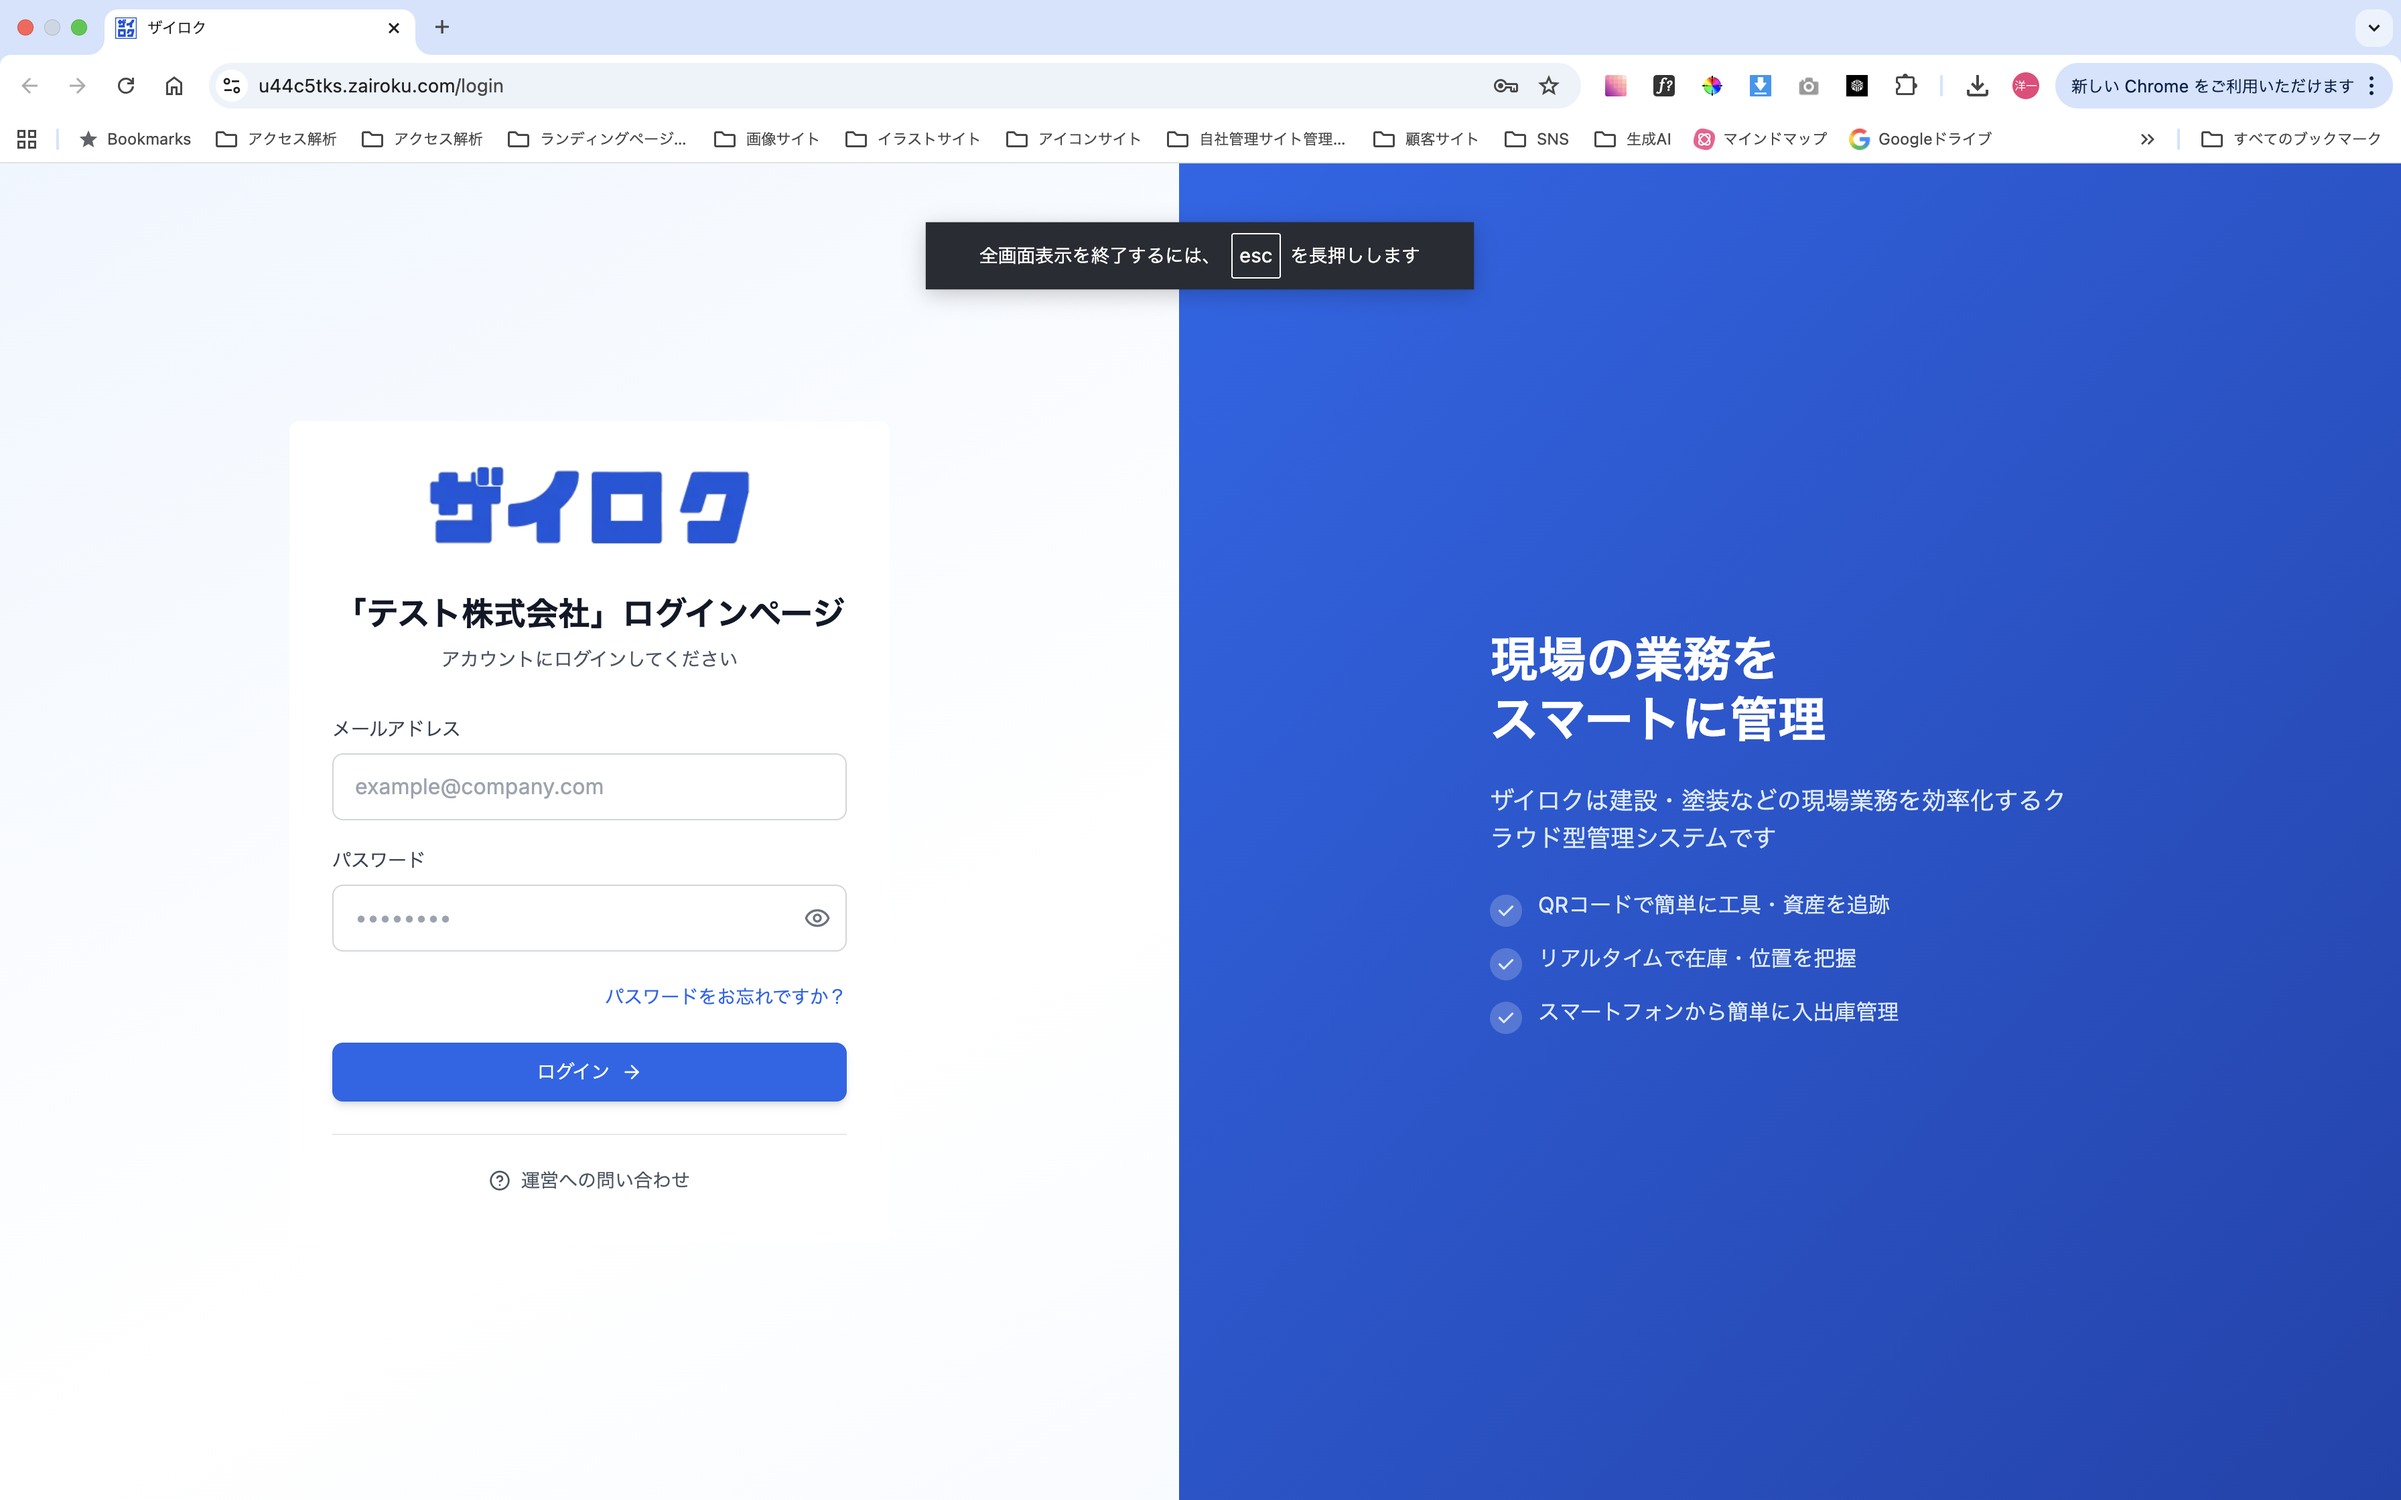
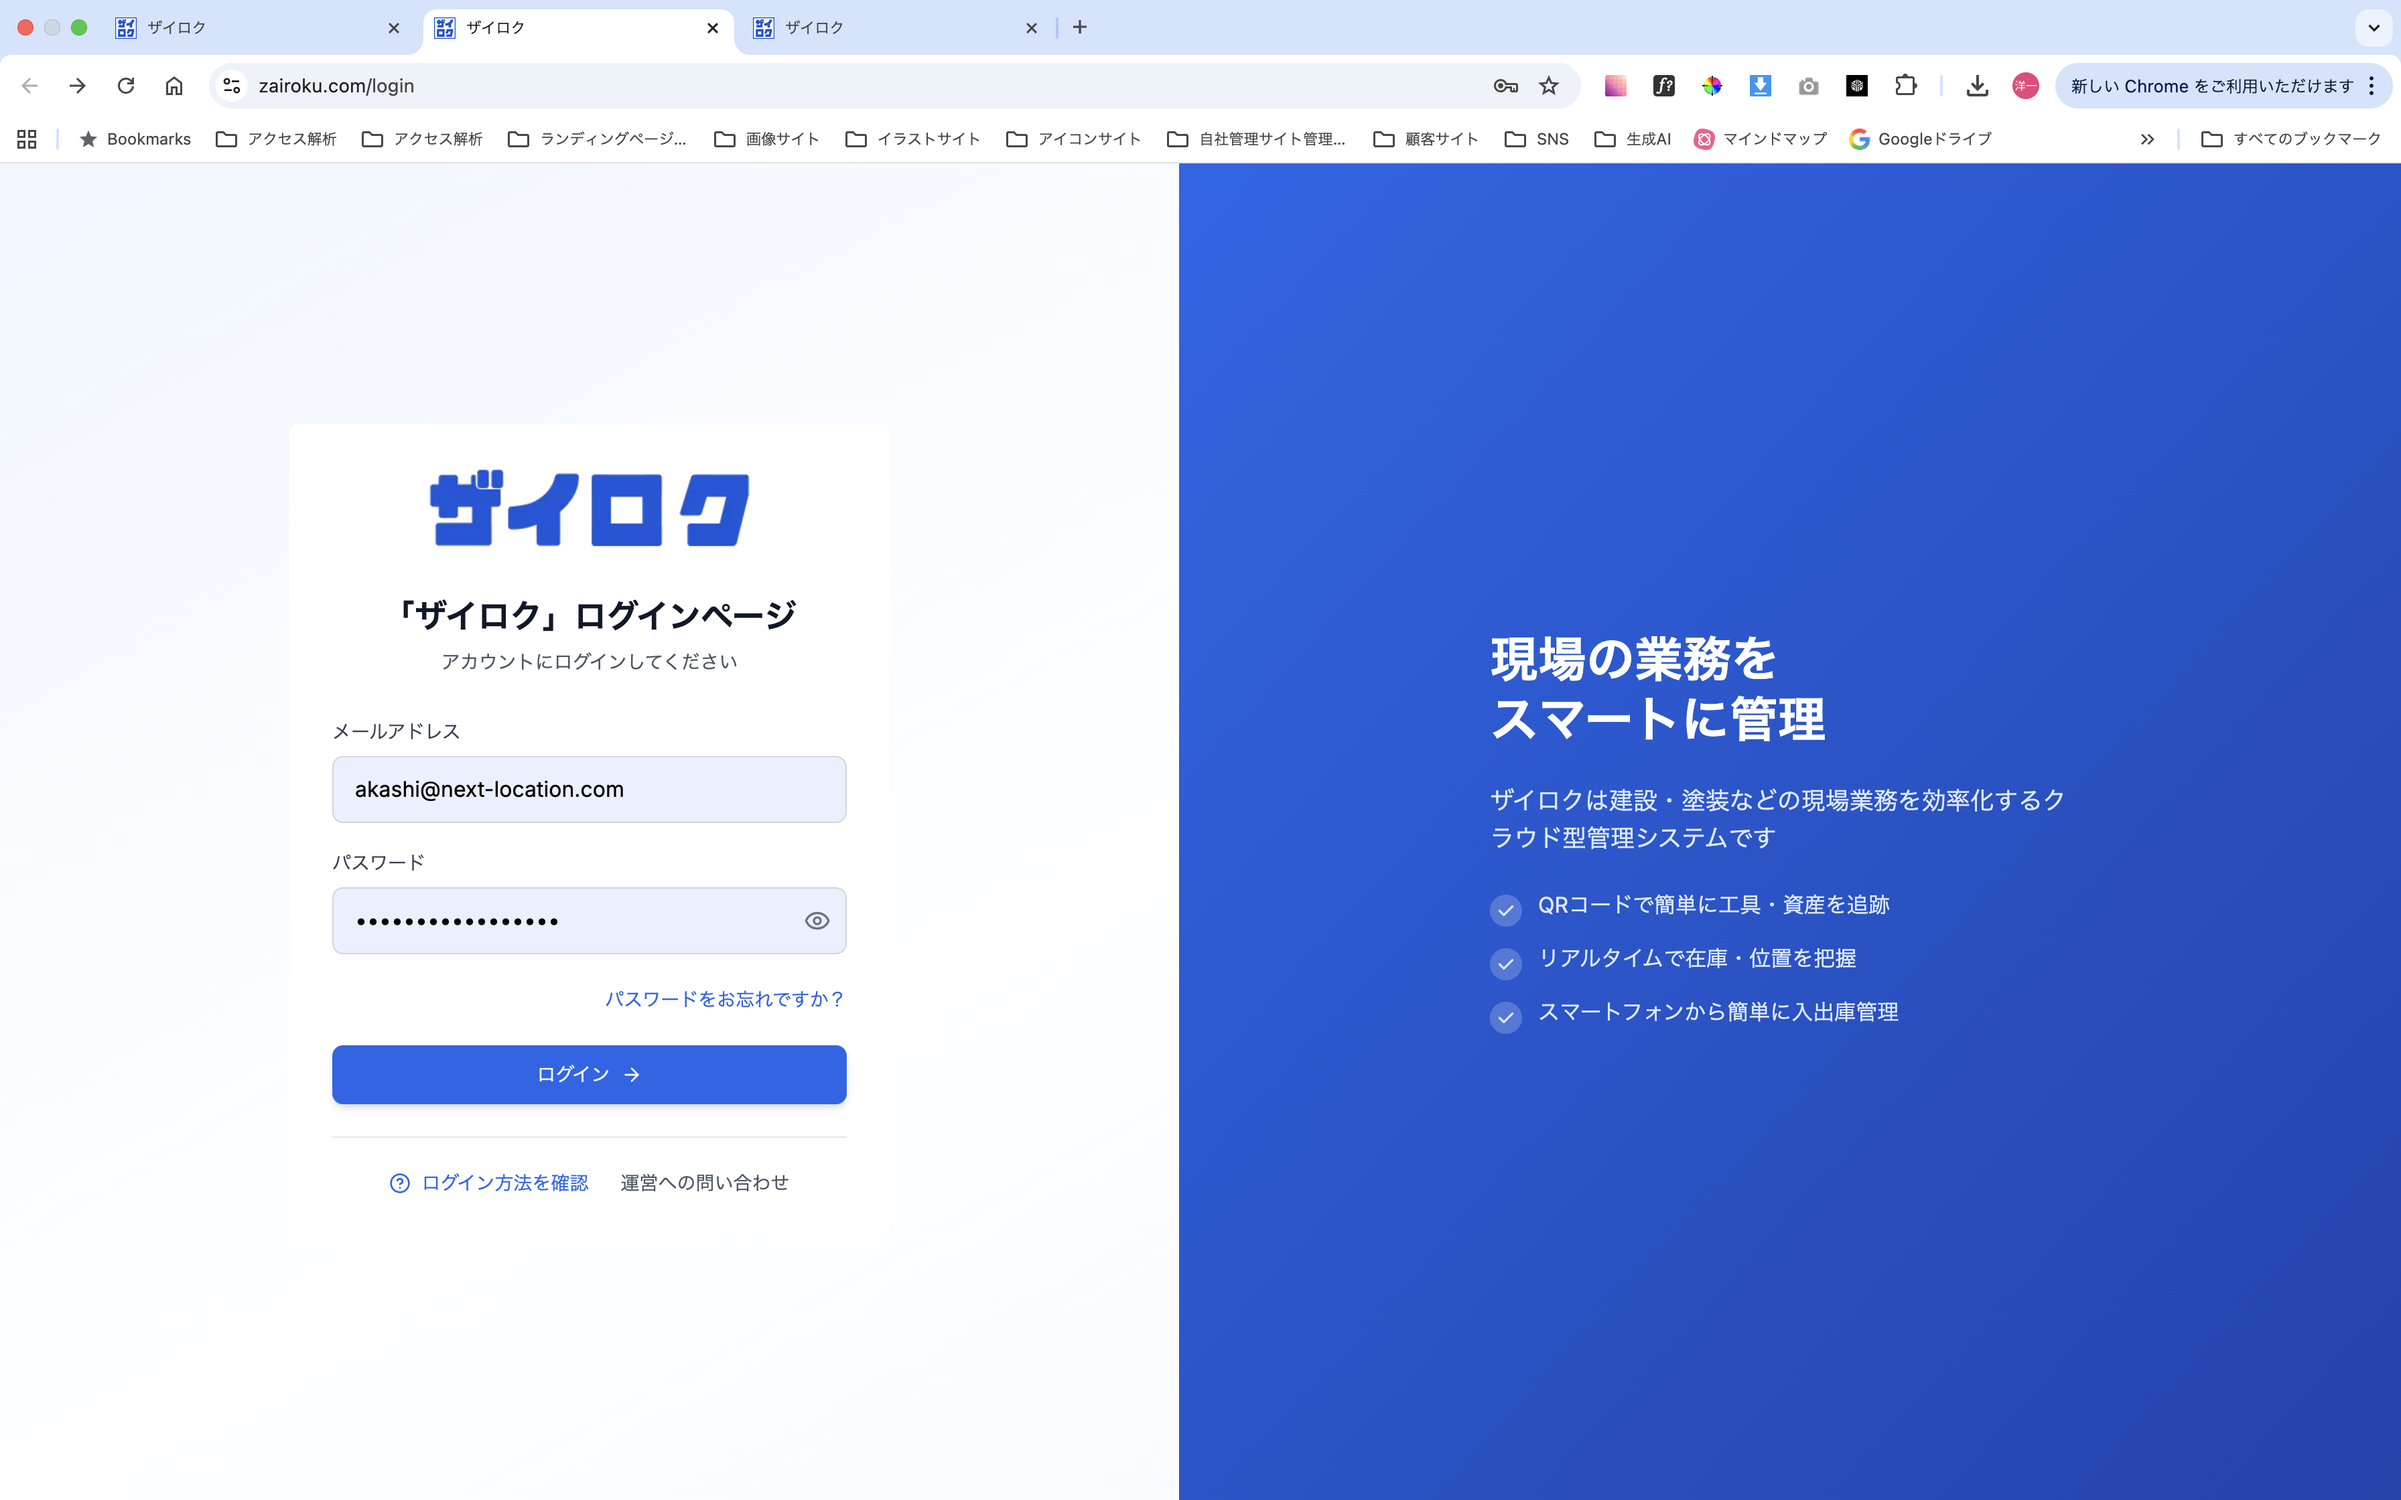
fix: improve manual page styling and login page layout
- Fix prose styles on authenticated manual pages
- Change login page footer links to vertical layout
- Update login-screen-pc.png image
- Add proper prose modifiers for better typography

🤖 Generated with [Claude Code](https://claude.com/claude-code)

diff --git a/app/login/LoginForm.tsx b/app/login/LoginForm.tsx
@@ -408,7 +408,7 @@ export default function LoginForm({ organizationName }: LoginFormProps) {
 
             {/* フッターリンク */}
             <div className="text-center space-y-3 sm:space-y-4 pt-4 sm:pt-6 border-t border-gray-200 mt-6">
-              <div className="flex flex-col sm:flex-row items-center justify-center gap-3 sm:gap-6">
+              <div className="flex flex-col items-center justify-center gap-3">
                 <Link
                   href="/help/login"
                   className="inline-flex items-center gap-2 text-sm text-blue-600 hover:text-blue-700 hover:underline transition-colors"

diff --git a/app/(authenticated)/manual/[...slug]/page.tsx b/app/(authenticated)/manual/[...slug]/page.tsx
@@ -105,7 +105,7 @@ export default async function ManualArticlePage({
         </div>
 
         {/* 記事本文 */}
-        <article className="prose prose-blue max-w-none">
+        <article className="prose prose-lg max-w-none prose-headings:text-gray-900 prose-a:text-blue-600 prose-strong:text-gray-900 prose-code:text-blue-600 prose-img:rounded-lg prose-img:border prose-img:border-gray-200">
           <div dangerouslySetInnerHTML={{ __html: article.content }} />
         </article>
 

diff --git a/app/(authenticated)/qa/[...slug]/page.tsx b/app/(authenticated)/qa/[...slug]/page.tsx
@@ -105,7 +105,7 @@ export default async function QAArticlePage({
         </div>
 
         {/* 記事本文 */}
-        <article className="prose prose-green max-w-none">
+        <article className="prose prose-lg max-w-none prose-headings:text-gray-900 prose-a:text-green-600 prose-strong:text-gray-900 prose-code:text-green-600 prose-img:rounded-lg prose-img:border prose-img:border-gray-200">
           <div dangerouslySetInnerHTML={{ __html: article.content }} />
         </article>
 
